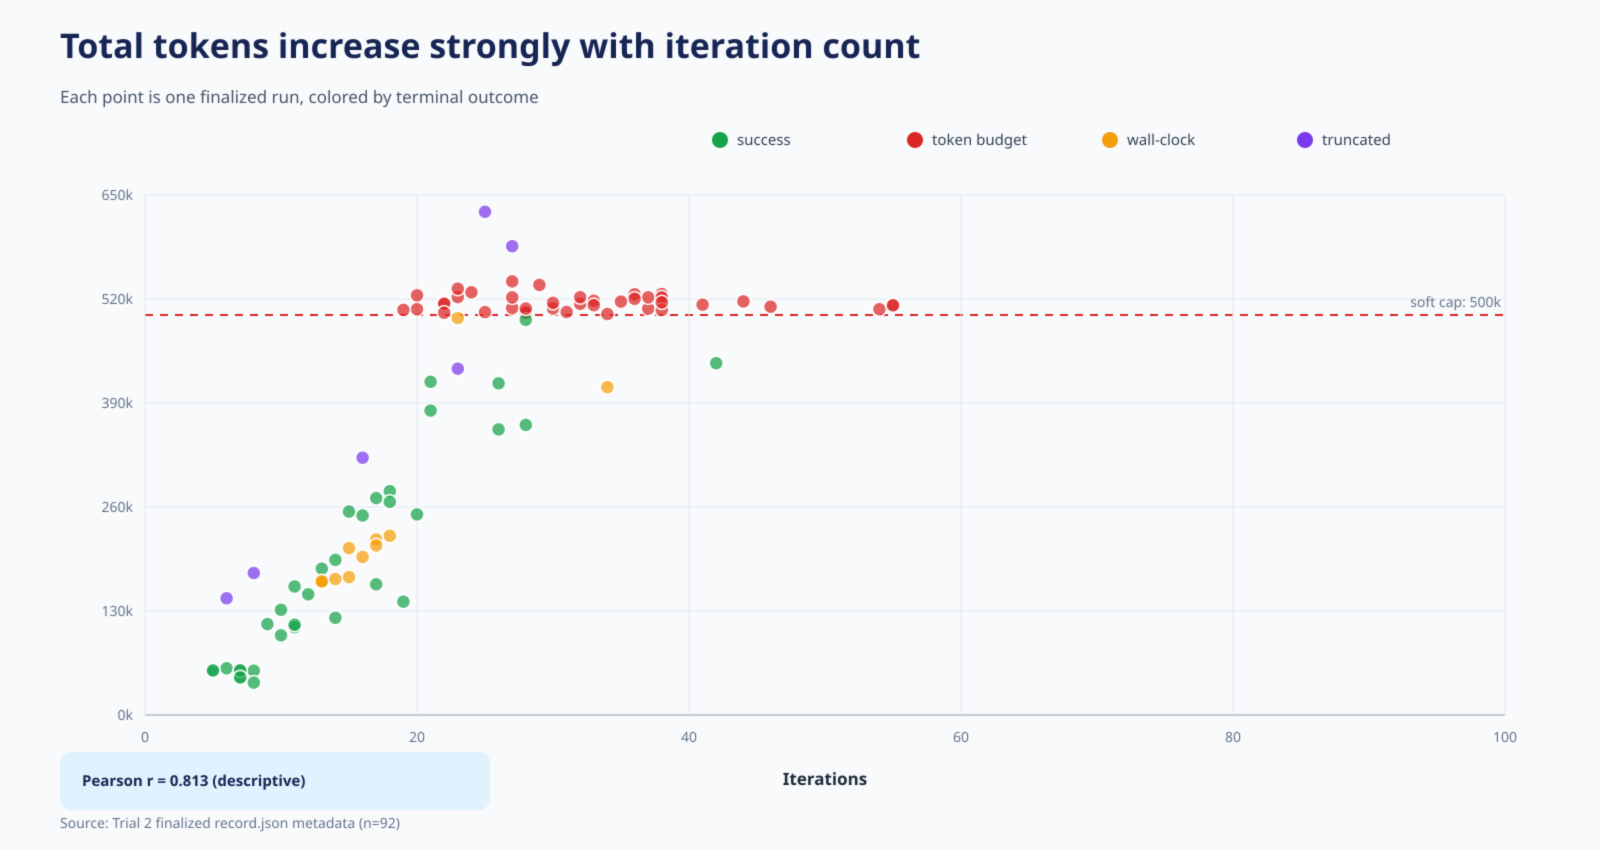
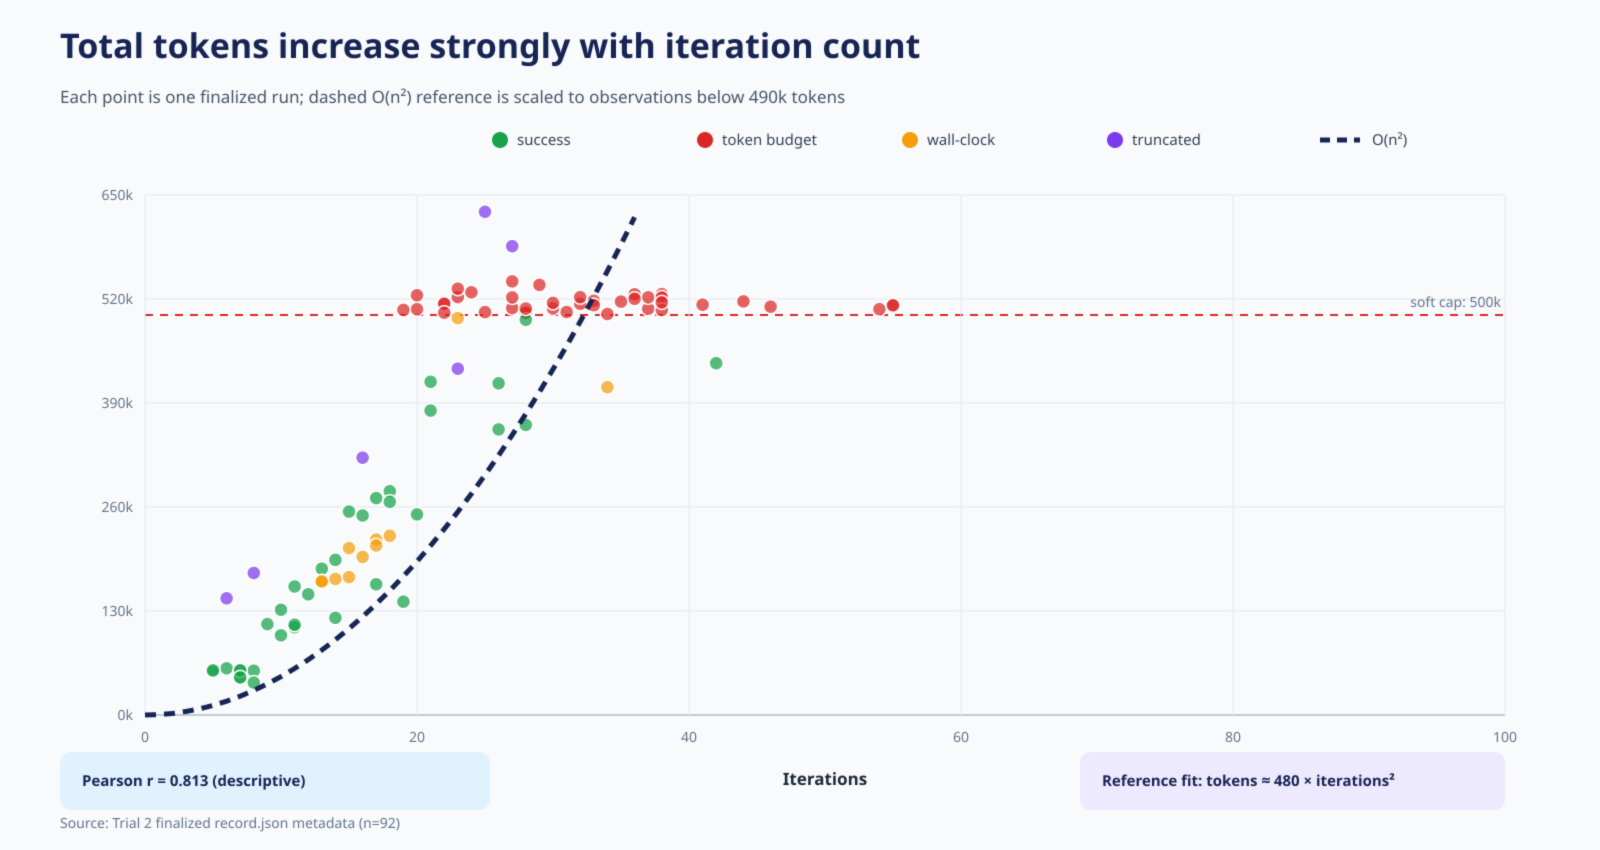
On2

diff --git a/runs_for_record_trial_2/diagrams/generate_token_metric_diagrams.py b/runs_for_record_trial_2/diagrams/generate_token_metric_diagrams.py
@@ -427,6 +427,26 @@ def tokens_vs_iterations(records: list[dict[str, Any]]) -> str:
         body.append(
             f'<circle cx="{x:.1f}" cy="{y:.1f}" r="7" fill="{color}" fill-opacity="0.72" stroke="#fff" stroke-width="1.5"/>'
         )
+
+    # Scale a k*n^2 reference to the uncapped observations. Excluding records
+    # at or above 490k avoids treating the soft-budget pileup as unconstrained
+    # quadratic growth.
+    uncapped = [record for record in records if record["tokens"]["total"] < 490_000]
+    coefficient = sum(
+        record["iterations"] ** 2 * record["tokens"]["total"]
+        for record in uncapped
+    ) / sum(record["iterations"] ** 4 for record in uncapped)
+    curve_points = []
+    for iterations in range(0, 101):
+        token_count = coefficient * iterations**2
+        if token_count > 650_000:
+            break
+        x = x0 + plot_width * iterations / 100
+        y = y0 + plot_height * (1 - token_count / 650_000)
+        curve_points.append(f"{x:.1f},{y:.1f}")
+    body.append(
+        f'<polyline points="{" ".join(curve_points)}" fill="none" stroke="{NAVY}" stroke-width="5" stroke-dasharray="11 8"/>'
+    )
     legend = (
         ("success", GREEN),
         ("token budget", RED),
@@ -434,13 +454,19 @@ def tokens_vs_iterations(records: list[dict[str, Any]]) -> str:
         ("truncated", PURPLE),
     )
     for index, (label, color) in enumerate(legend):
-        x = 720 + index * 195
+        x = 500 + index * 205
         body.extend(
             [
                 f'<circle cx="{x}" cy="140" r="8" fill="{color}"/>',
                 f'<text class="legend" x="{x + 17}" y="145">{label}</text>',
             ]
         )
+    body.extend(
+        [
+            f'<line x1="1320" y1="140" x2="1360" y2="140" stroke="{NAVY}" stroke-width="5" stroke-dasharray="10 7"/>',
+            '<text class="legend" x="1372" y="145">O(n²)</text>',
+        ]
+    )
     correlation = pearson(
         [record["iterations"] for record in records],
         [record["tokens"]["total"] for record in records],
@@ -450,11 +476,13 @@ def tokens_vs_iterations(records: list[dict[str, Any]]) -> str:
             '<text class="label" x="825" y="785" text-anchor="middle">Iterations</text>',
             f'<rect x="60" y="752" width="430" height="58" rx="11" fill="#e0f2fe"/>',
             f'<text class="value" x="82" y="786">Pearson r = {correlation:.3f} (descriptive)</text>',
+            f'<rect x="1080" y="752" width="425" height="58" rx="11" fill="#ede9fe"/>',
+            f'<text class="value" x="1102" y="786">Reference fit: tokens ≈ {coefficient:.0f} × iterations²</text>',
         ]
     )
     return base_svg(
         "Total tokens increase strongly with iteration count",
-        "Each point is one finalized run, colored by terminal outcome",
+        "Each point is one finalized run; dashed O(n²) reference is scaled to observations below 490k tokens",
         850,
         body,
     )
@@ -561,9 +589,11 @@ more iterations and are more likely to exhaust the budget.
 
    ![Prompt and completion composition](05_prompt_completion_composition.png)
 
-6. **Tokens versus iterations** — total tokens rise strongly with turn count;
-   the relationship is descriptive and partly mechanical because accumulated
-   context is reintroduced across iterations.
+6. **Tokens versus iterations** — total tokens rise strongly with turn count.
+   The dashed quadratic reference is a least-squares `k × iterations²` curve
+   scaled on observations below 490k tokens; it is illustrative rather than a
+   formal complexity estimate. The relationship is partly mechanical because
+   accumulated context is reintroduced across iterations.
 
    ![Total tokens versus iterations](06_tokens_vs_iterations.png)
 

diff --git a/runs_for_record_trial_2/diagrams/token_metrics/INDEX.md b/runs_for_record_trial_2/diagrams/token_metrics/INDEX.md
@@ -46,9 +46,11 @@ more iterations and are more likely to exhaust the budget.
 
    ![Prompt and completion composition](05_prompt_completion_composition.png)
 
-6. **Tokens versus iterations** — total tokens rise strongly with turn count;
-   the relationship is descriptive and partly mechanical because accumulated
-   context is reintroduced across iterations.
+6. **Tokens versus iterations** — total tokens rise strongly with turn count.
+   The dashed quadratic reference is a least-squares `k × iterations²` curve
+   scaled on observations below 490k tokens; it is illustrative rather than a
+   formal complexity estimate. The relationship is partly mechanical because
+   accumulated context is reintroduced across iterations.
 
    ![Total tokens versus iterations](06_tokens_vs_iterations.png)
 
